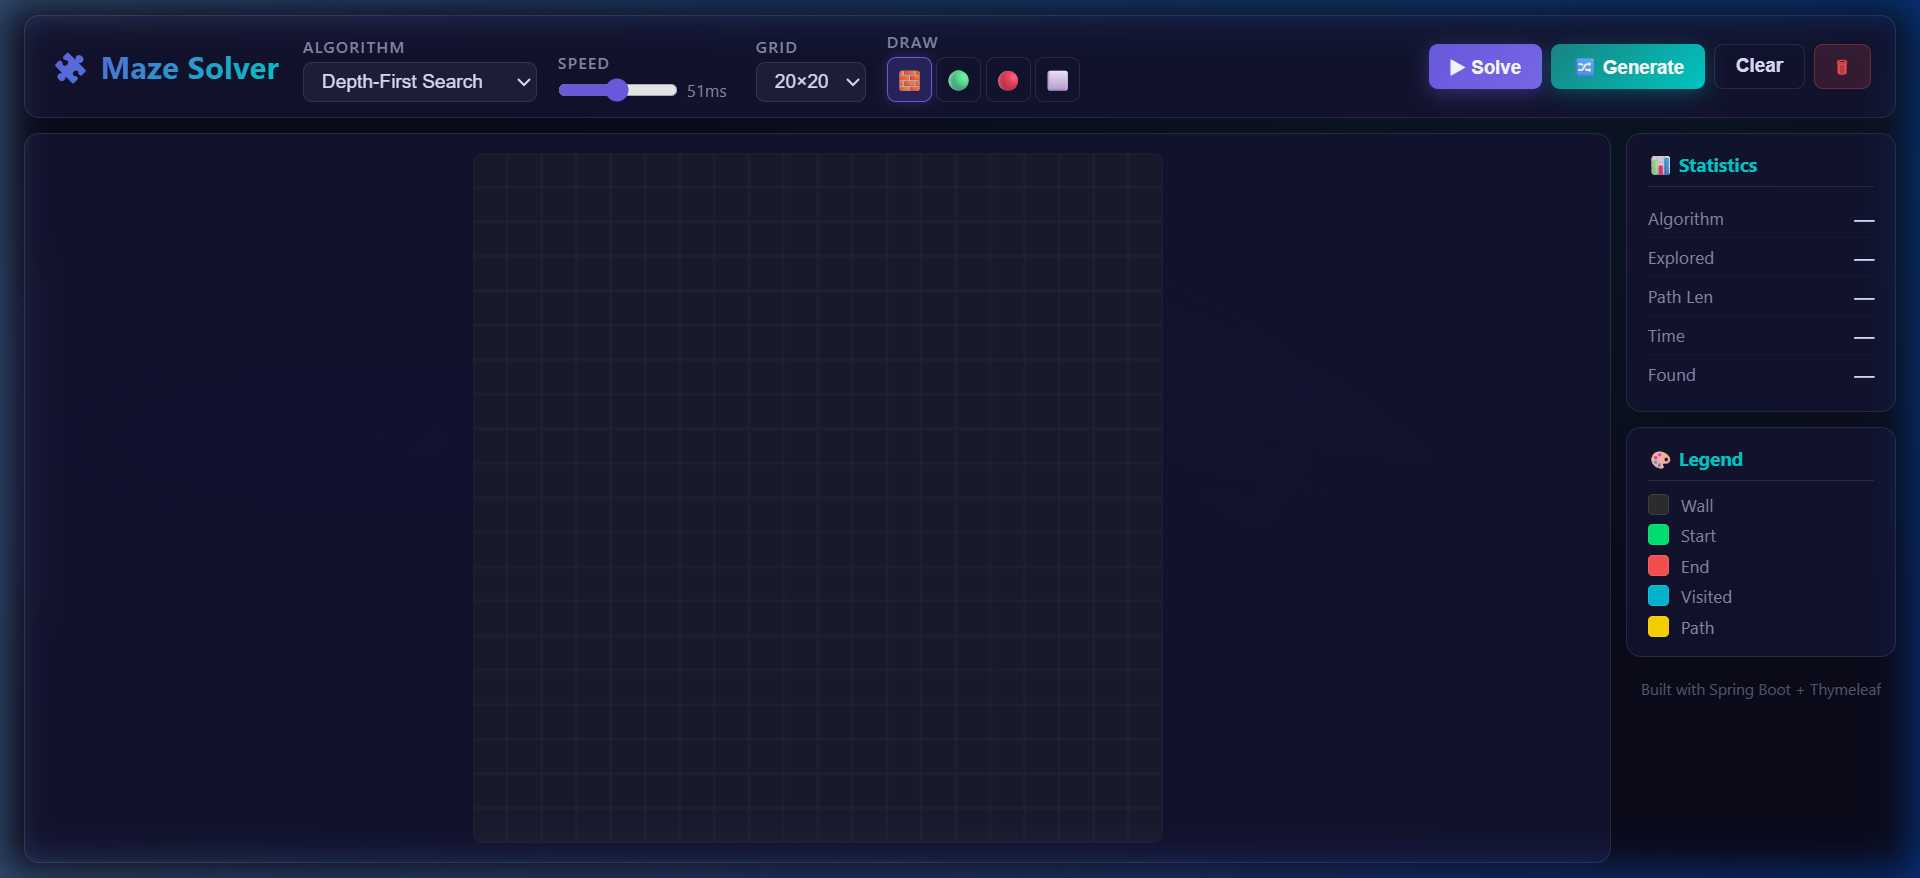
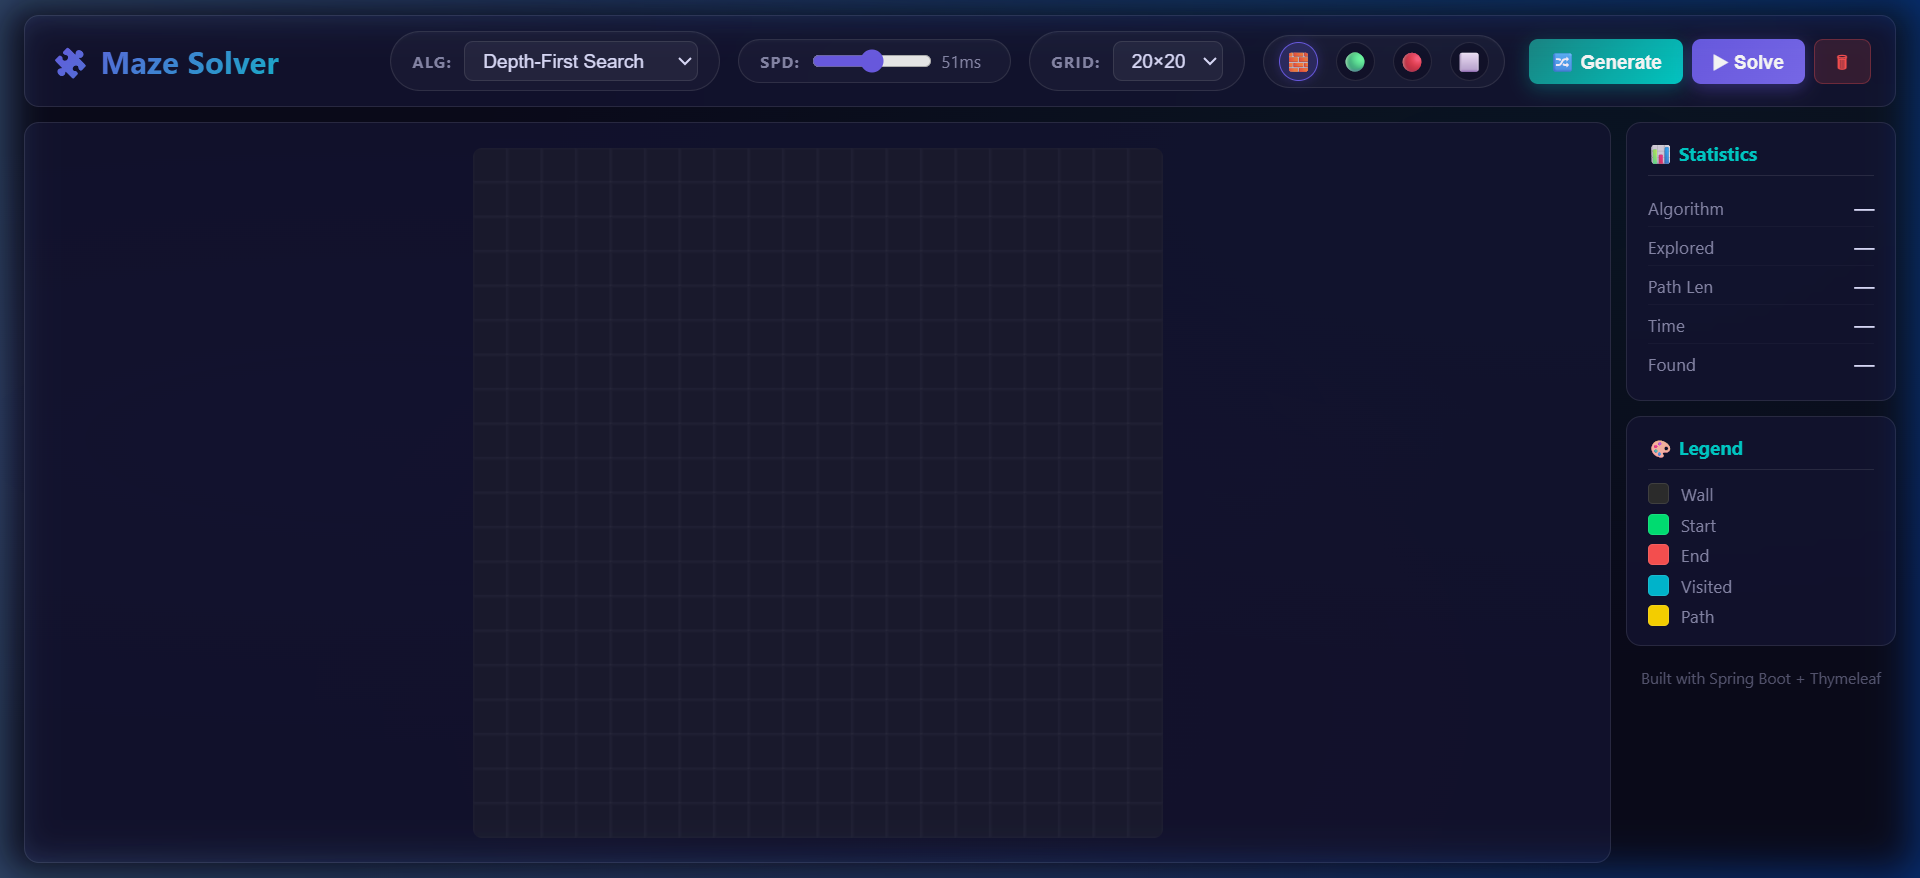
update readme and screenshots

diff --git a/README.md b/README.md
@@ -6,6 +6,7 @@ An interactive web application that visualizes pathfinding algorithms solving ma
 
 ## ✨ Features
 
+- **Single-Viewport Premium UI** — A fully cohesive, eye-catching workspace featuring glassmorphism, glowing neon accents, and perfectly aligned horizontal controls. No scrolling required!
 - **4 Pathfinding Algorithms** with animated step-by-step visualization
   - **BFS** — Breadth-First Search (guarantees shortest path)
   - **DFS** — Depth-First Search (deep exploration, non-optimal)
@@ -13,12 +14,11 @@ An interactive web application that visualizes pathfinding algorithms solving ma
   - **A*** — Optimal search with Manhattan distance heuristic
 - **Maze Generation** — Recursive Backtracker creates perfect mazes with winding corridors
 - **Interactive Grid** — Draw walls, place start/end points, erase cells via click & drag
-- **Real-time Animation** — Watch algorithms explore the grid with gradient-colored visited nodes and golden shortest path
-- **Statistics Panel** — Nodes explored, path length, execution time, and path found status
-- **Speed Control** — Adjustable animation speed slider
-- **Multiple Grid Sizes** — 10×10, 15×15, 20×20, 25×25, 30×30
+- **Real-time Animation** — Watch algorithms explore the grid with visually stunning gradient-colored visited nodes and golden shortest paths
+- **Dynamic Statistics Panel** — Tracks nodes explored, path length, execution time, and path found status
+- **Multiple Grid Sizes** — 15×15, 20×20, 25×25, 30×30, 40×40
 
-![BFS Solved](docs/screenshots/bfs-solved.png)
+![DFS Solved](docs/screenshots/dfs-solved.png)
 
 ## 🏗️ Architecture
 